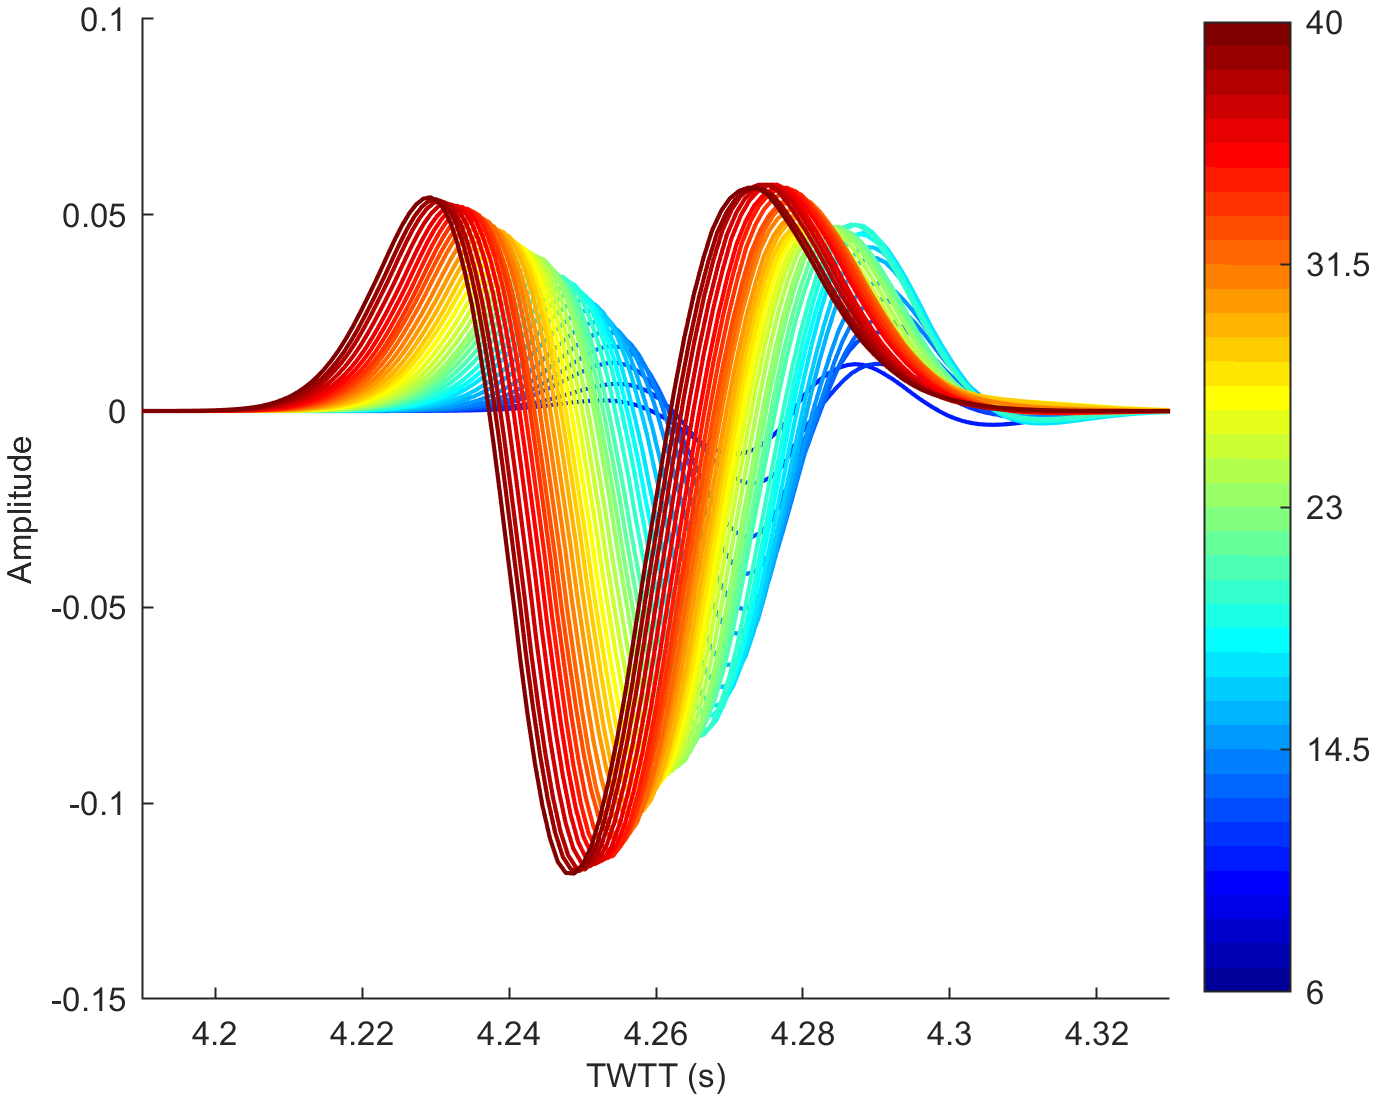
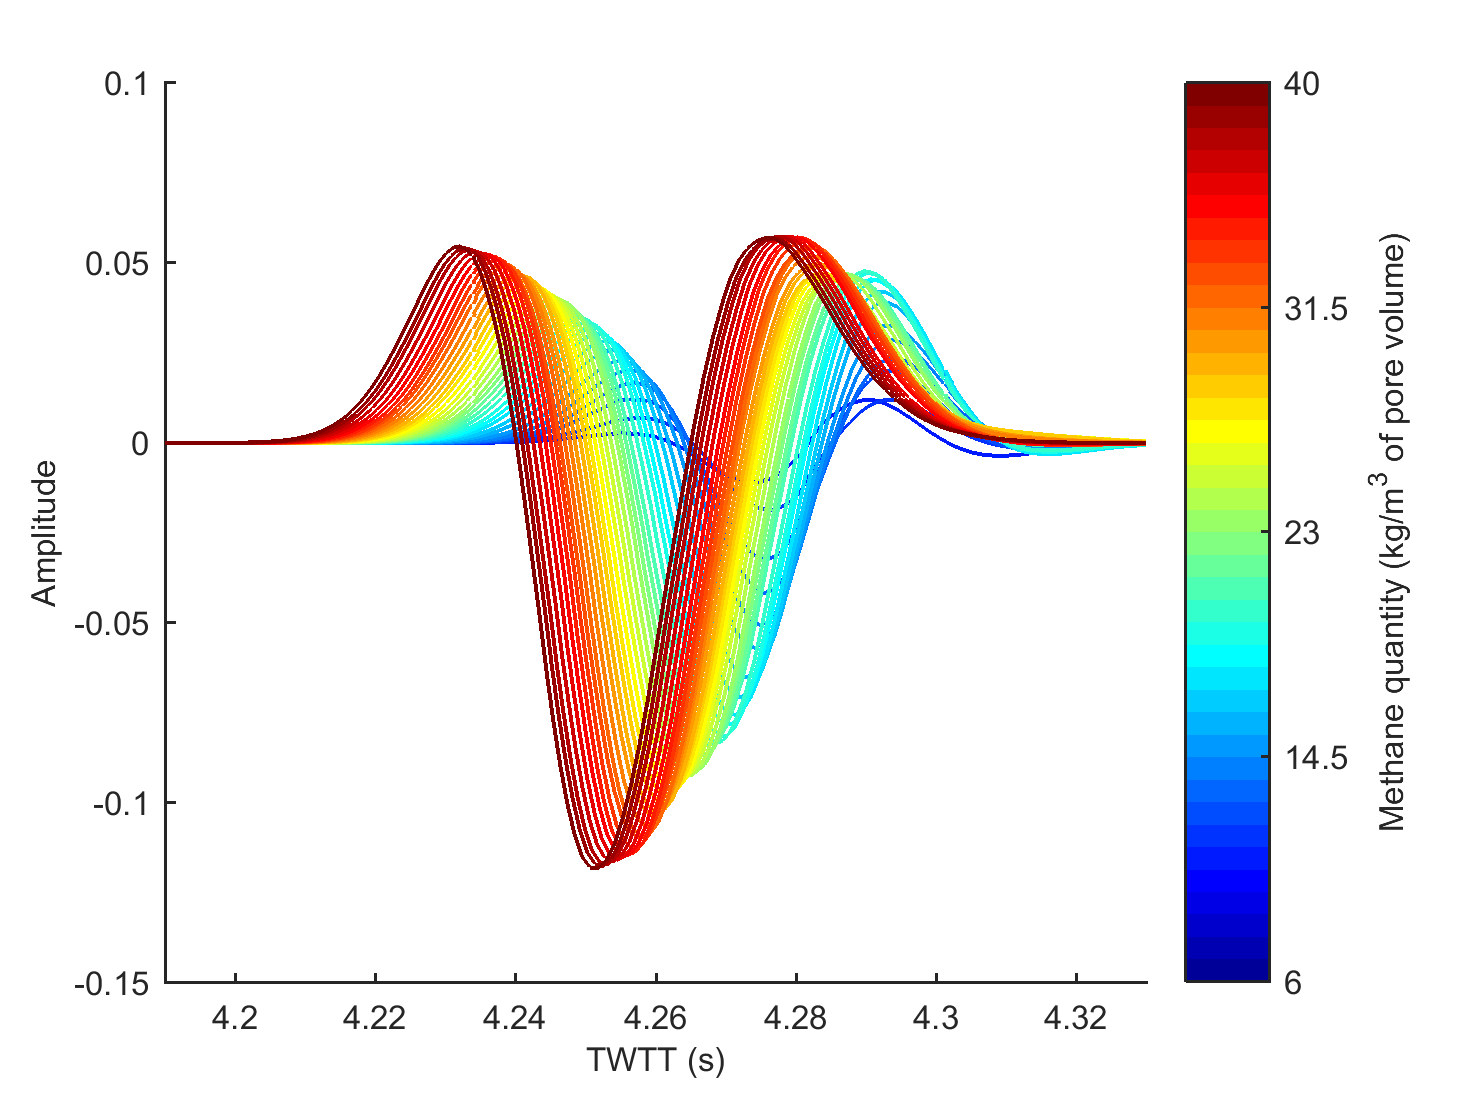
new soft clay figures

diff --git a/mainScript.m b/mainScript.m
@@ -110,12 +110,12 @@ clear variables
 %% Seismic analysis for Blake Ridge
 obj = DCSeismicAnalysisBR();
 
-test = 1;
-obj.clayK = 10.5e9; % Pa
-obj.parameterSensitivitySeismogramAxis = [4.17 4.31 -0.11 0.06];
+% test = 1;
+% obj.clayK = 10.5e9; % Pa
+% obj.parameterSensitivitySeismogramAxis = [4.17 4.31 -0.11 0.06];
 
 
-% test = 2;
+test = 2;
 % obj.clayK = 10.5e9; % Pa
 % obj.seismogramAxis = [4.21 4.35 -0.15 0.1];
 % obj.seismogramDickensAxis = [4.21 4.35 -0.15 0.15];
